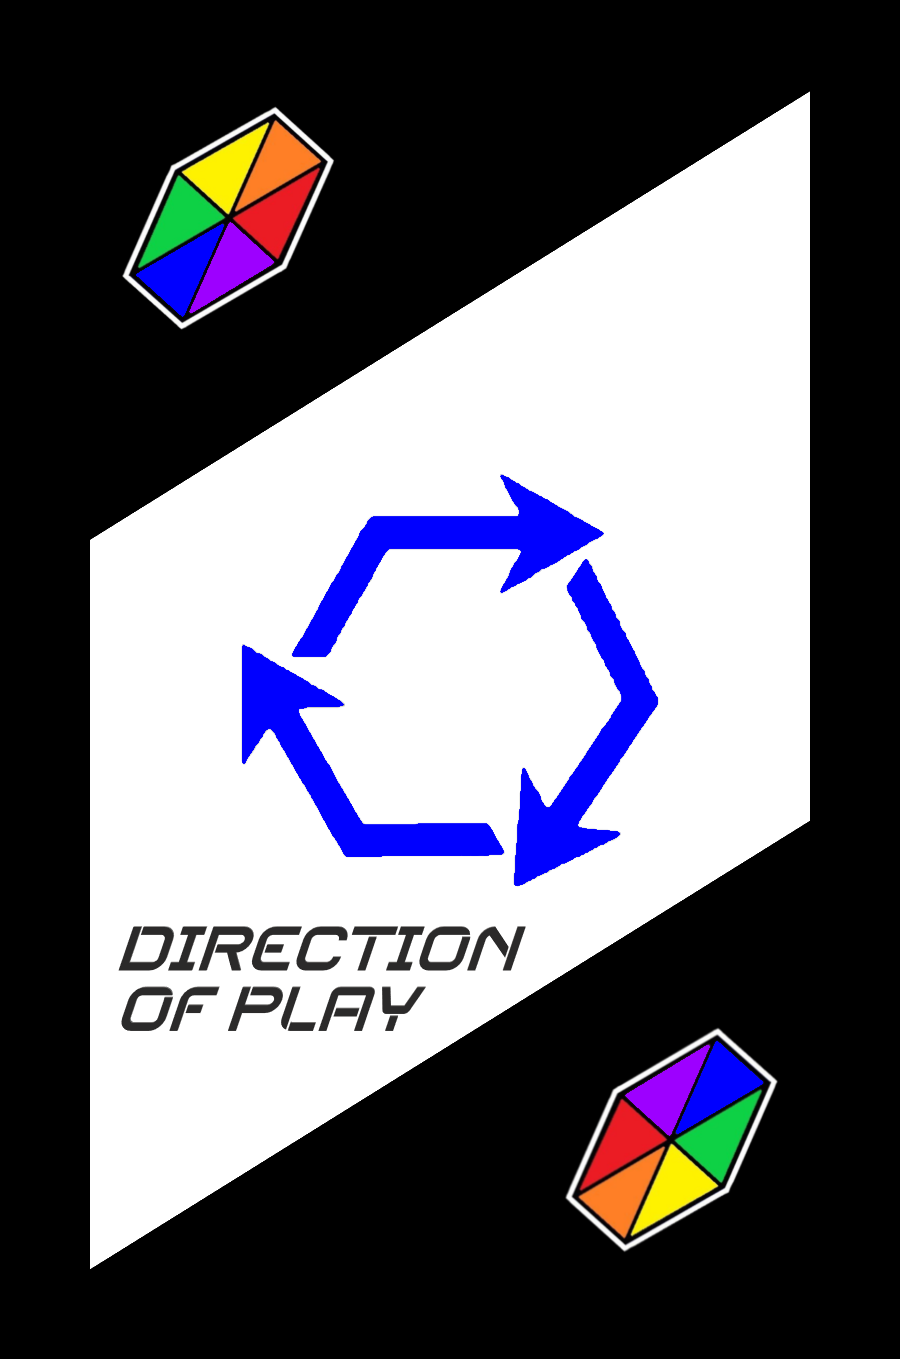
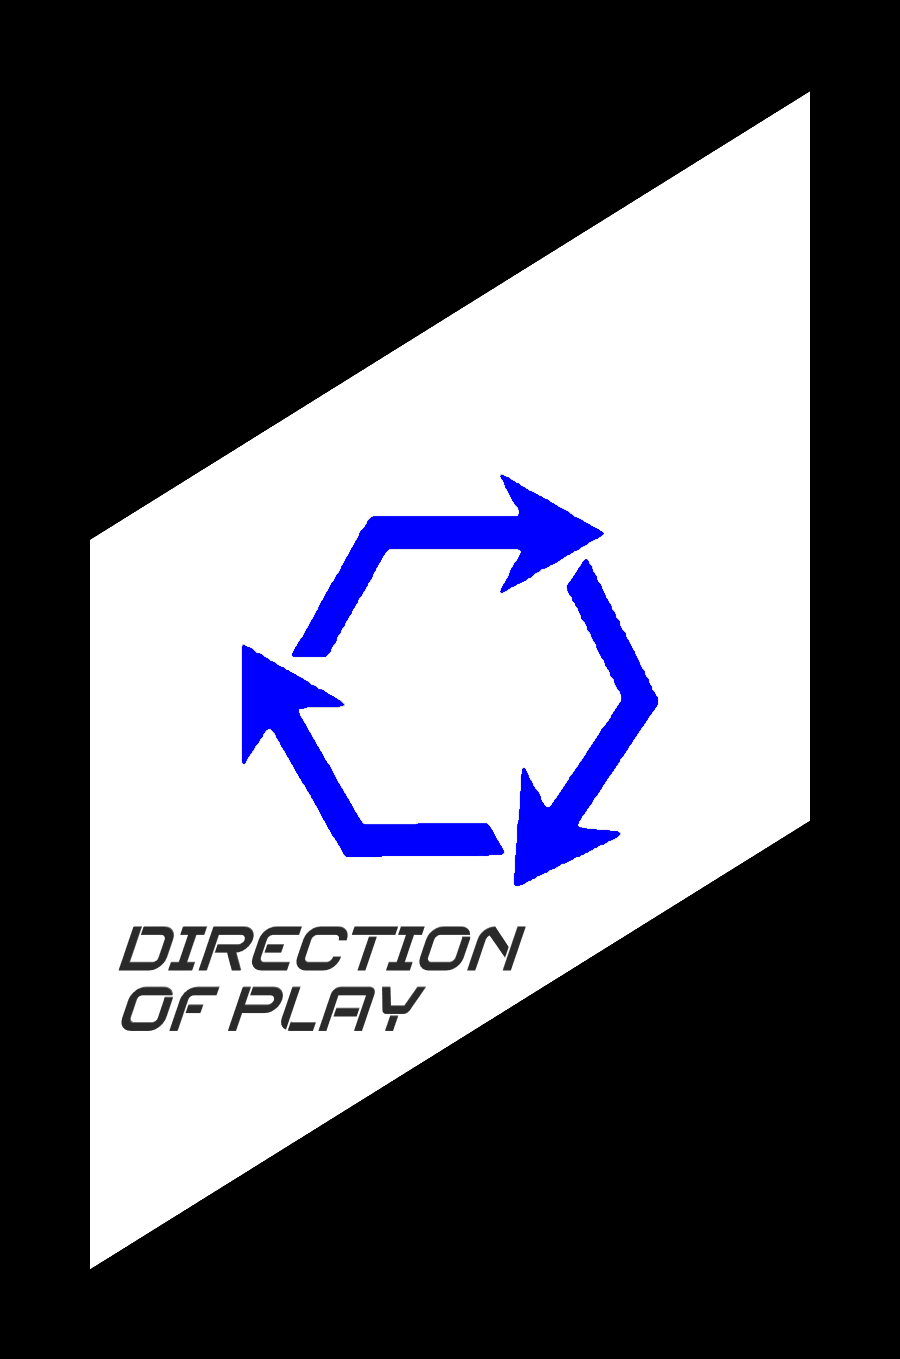
edited tutorial & crazy 8s cards rulebooks to include setup cards: direction of play & play to the side of the discards

Changed region(s): [[0.6222, 0.7417, 0.8711, 0.9272], [0.1244, 0.0618, 0.3733, 0.2472]]

diff --git a/src/content/games/01-a-crazy-8s-tutorial-cards.md b/src/content/games/01-a-crazy-8s-tutorial-cards.md
@@ -14,6 +14,17 @@ type: "cards"
 
 <div id="tutorial-card-definitions-contents"></div>
 <div class="matrix-toc-box">
+<h2 class="matrix-toc-title">📋 <span style="color: #3b82f6;">CARD DEFINITIONS - SETUP CARDS:</span></h2>
+<ul class="matrix-toc-sub-grid">
+<li class="matrix-item-heading">
+<a href="#tutorial-direction-of-play" class="matrix-link">DIRECTION OF PLAY</a>
+</li>
+<li class="matrix-item-heading">
+<a href="#tutorial-play-to-the-side-of-the-discards" class="matrix-link">PLAY TO THE SIDE OF THE DISCARDS</a>
+</li>
+</div>
+
+<div class="matrix-toc-box">
 <h2 class="matrix-toc-title">📋 <span style="color: #3b82f6;">CARD DEFINITIONS - NON-NUMBERED COLOURED ACTION CLASS:</span></h2>
 <ul class="matrix-toc-sub-grid">
 <li class="matrix-item-heading">
@@ -78,30 +89,70 @@ type: "cards"
 </ul>
 </nav>
 
-<div id="tutorial-draw-2">
+<div id="tutorial-direction-of-play">
 <div class="rules-box">
 <div class="card-top-section">
 <div class="rules-box">
-<h4 class="card-title">"COLOURED" DRAW +2 [x2 Per Colour]:</h4>
+<h4 class="card-title">DIRECTION OF PLAY:</h4>
 <ul>
-<li><strong><span style="color: var(--color-card-class);">Core Game, Core Extension & Coloured Extensions</span></strong></li>
-<li><strong><span style="color: var(--color-card-class);">Action Class</span></strong></li>
-<li><strong><span style="color: var(--color-card-class);">Stackable</span></strong></li>
-<li><strong><span style="color: var(--color-card-class);">Next Targeting</span></strong></li>
+<li><strong><span style="color: var(--color-card-class);">Core Game</span></strong></li>
+<li><strong><span style="color: var(--color-card-class);">Setup Class</span></strong></li>
 </ul>
 </div>
 <div class="image-container">
-<img src="/assets/images/cards/000-1-steel-draw-2.png">
+<img src="/assets/images/cards/0000-direction-of-play.png">
+</div>
+<div class="image-container">
+<img src="/assets/images/cards/0000-direction-of-play-anti-clockwise.png">
 </div>
 </div>
 <div class="discards-box">
 <ul>
-<li>Acts as Draw +2.</li>
+<li>Placed next to the Discards during Setup.</li>
 </ul>
 </div>
 <div class="rules-box">
 <ol type="1">
-<li>The Next Player Must <a href="#glossary:draw">Draw</span></strong></a> 2 Cards and <a href="#glossary:miss-their-turn">Miss Their Turn</a> or <a href="#glossary:respond-in-kind">Respond in Kind</a>.</li>
+<li>Shows the Current Direction of Play.</li>
+<li>When You Activate a Reverse Effect, You must Flip this Card over.
+<div class="tip-box">
+<strong>TIP:</strong>
+<ul>
+<li>It helps with keeping track of whose Turn it is.</li>
+</ul>
+</div>
+</li>
+</ol>
+</div>
+<div class="return-link-wrapper">
+<a href="#tutorial-cards-contents" class="return-link">🔝 Return to 📋 RULEBOOK CONTENTS</a>
+</div>
+</div>
+</div>
+
+<div id="tutorial-play-to-the-side-of-the-discards">
+<div class="rules-box">
+<div class="card-top-section">
+<div class="rules-box">
+<h4 class="card-title">PLAY TO THE SIDE OF THE DISCARDS:</h4>
+<ul>
+<li><strong><span style="color: var(--color-card-class);">Core Game</span></strong></li>
+<li><strong><span style="color: var(--color-card-class);">Setup Class</span></strong></li>
+</ul>
+</div>
+<div class="image-container">
+<img src="/assets/images/cards/0000-play-to-the-side-of-the-discards.png">
+</div>
+</div>
+<div class="discards-box">
+<ul>
+<li>Placed next to the Discards during Setup.</li>
+</ul>
+</div>
+<div class="rules-box">
+<ol type="1">
+<li>When various Card Effects direct You to, Play Them on top of this Card beside the Discards instead of on top of the Discards.</li>
+<li>This is due to these Card Effects allowing You to Discard one or more other Cards, and the Card You Played must be the last Card Played/Discarded in order to Change the Colour.</li>
 </ol>
 </div>
 <div class="return-link-wrapper">

diff --git a/src/content/games/01-b-crazy-8s-cards.md b/src/content/games/01-b-crazy-8s-cards.md
@@ -14,6 +14,17 @@ type: "cards"
 
 <div id="crazy-8s-cards-contents"></div>
 <div class="matrix-toc-box">
+<h2 class="matrix-toc-title">📋 <span style="color: #3b82f6;">CARD DEFINITIONS - SETUP CARDS:</span></h2>
+<ul class="matrix-toc-sub-grid">
+<li class="matrix-item-heading">
+<a href="#crazy-8s-direction-of-play" class="matrix-link">DIRECTION OF PLAY</a>
+</li>
+<li class="matrix-item-heading">
+<a href="#crazy-8s-play-to-the-side-of-the-discards" class="matrix-link">PLAY TO THE SIDE OF THE DISCARDS</a>
+</li>
+</div>
+
+<div class="matrix-toc-box">
 <h2 class="matrix-toc-title">📋 <span style="color: #3b82f6;">CARD DEFINITIONS - SIDE DECKS</span></h2>
 <ul class="matrix-toc-sub-grid">
 <li class="matrix-item-heading">
@@ -178,6 +189,78 @@ type: "cards"
 </ul>
 </div>
 </nav>
+
+<div id="crazy-8s-direction-of-play">
+<div class="rules-box">
+<div class="card-top-section">
+<div class="rules-box">
+<h4 class="card-title">DIRECTION OF PLAY:</h4>
+<ul>
+<li><strong><span style="color: var(--color-card-class);">Core Game</span></strong></li>
+<li><strong><span style="color: var(--color-card-class);">Setup Class</span></strong></li>
+</ul>
+</div>
+<div class="image-container">
+<img src="/assets/images/cards/0000-direction-of-play.png">
+</div>
+<div class="image-container">
+<img src="/assets/images/cards/0000-direction-of-play-anti-clockwise.png">
+</div>
+</div>
+<div class="discards-box">
+<ul>
+<li>Placed next to the Discards during Setup.</li>
+</ul>
+</div>
+<div class="rules-box">
+<ol type="1">
+<li>Shows the Current Direction of Play.</li>
+<li>When You Activate a Reverse Effect, You must Flip this Card over.
+<div class="tip-box">
+<strong>TIP:</strong>
+<ul>
+<li>It helps with keeping track of whose Turn it is.</li>
+</ul>
+</div>
+</li>
+</ol>
+</div>
+<div class="return-link-wrapper">
+<a href="#crazy-8s-cards-contents" class="return-link">🔝 Return to 📋 RULEBOOK CONTENTS</a>
+</div>
+</div>
+</div>
+
+<div id="crazy-8s-play-to-the-side-of-the-discards">
+<div class="rules-box">
+<div class="card-top-section">
+<div class="rules-box">
+<h4 class="card-title">PLAY TO THE SIDE OF THE DISCARDS:</h4>
+<ul>
+<li><strong><span style="color: var(--color-card-class);">Core Game</span></strong></li>
+<li><strong><span style="color: var(--color-card-class);">Setup Class</span></strong></li>
+</ul>
+</div>
+<div class="image-container">
+<img src="/assets/images/cards/0000-play-to-the-side-of-the-discards.png">
+</div>
+</div>
+<div class="discards-box">
+<ul>
+<li>Placed next to the Discards during Setup.</li>
+</ul>
+</div>
+<div class="rules-box">
+<ol type="1">
+<li>When various Card Effects direct You to, Play Them on top of this Card beside the Discards instead of on top of the Discards.</li>
+<li>This is due to these Card Effects allowing You to Discard one or more other Cards, and the Card You Played must be the last Card Played/Discarded in order to Change the Colour.</li>
+</ol>
+</div>
+<div class="return-link-wrapper">
+<a href="#crazy-8s-cards-contents" class="return-link">🔝 Return to 📋 RULEBOOK CONTENTS</a>
+</div>
+</div>
+</div>
 
 <!-- SUB-INDEX JUMP MATRIX ARCHITECT-->
 <div id="crazy-8s-architect"></div>

diff --git a/src/content/games/01-a-crazy-8s-tutorial-rules.md b/src/content/games/01-a-crazy-8s-tutorial-rules.md
@@ -341,7 +341,7 @@ loading="lazy"
 <strong>EXAMPLES:</strong>
 <ul>
 <li>If the <strong>"Stun"</strong> Chaos Card is in play and <strong>"Vaccine"</strong> is played, the <strong>"Stun"</strong> Chaos Card cannot Deactivate [and Stun its target’s Turn] until <strong>"Vaccine"</strong> has finished.</li>
-<li>If the <strong>"Vaccine"</strong> Chaos Card is in play and its User <a href="#glossary:miss-their-turn">Misses Thier Next Turn</span></strong></a>, the <strong>"Vaccine"</strong> Chaos Card cannot Deactivate [allowing Chaos Cards to be played/activated again] due to its User not having a <a href="#glossary:playable-turn">Playable Turn</span></strong></a> that round.</li>
+<li>If the <strong>"Vaccine"</strong> Chaos Card is in play and its User <a href="#glossary:miss-their-turn">Misses Their Next Turn</span></strong></a>, the <strong>"Vaccine"</strong> Chaos Card cannot Deactivate [allowing Chaos Cards to be played/activated again] due to its User not having a <a href="#glossary:playable-turn">Playable Turn</span></strong></a> that round.</li>
 </ul>
 </div>
 </li>
